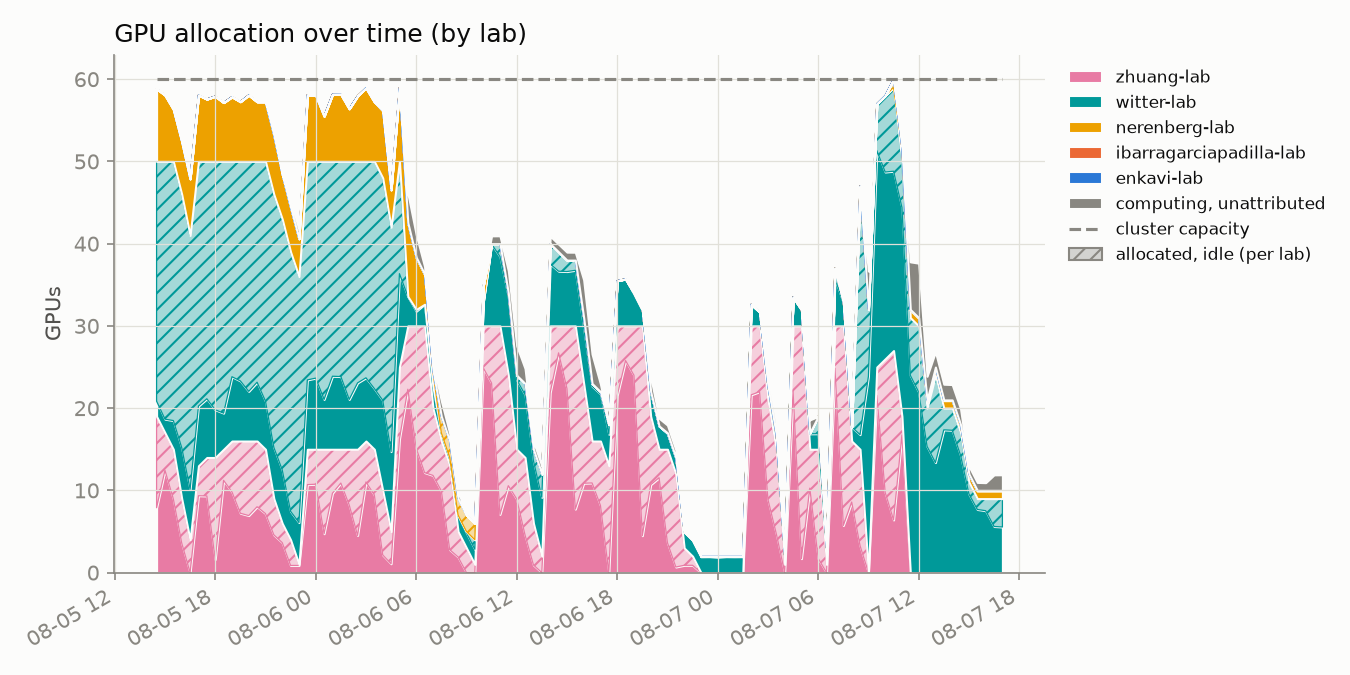
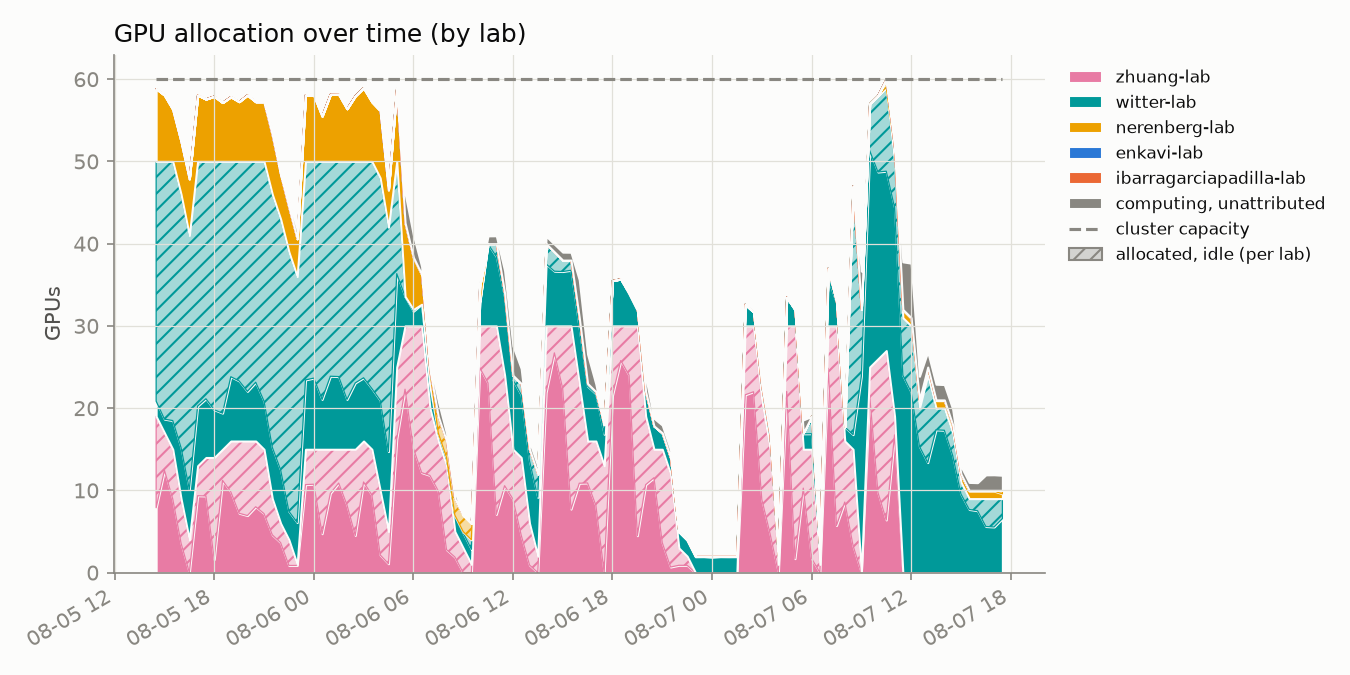
update 2026-08-07T17:30:01-07:00

diff --git a/README.md b/README.md
@@ -2,8 +2,8 @@
 
 Automated GPU/CPU/queue utilization tracker for `hopper.cluster`, updated every 30 minutes by cron. Usernames are anonymized to a stable per-account pseudonym; lab names are real.
 
-Last updated: 2026-08-07T17:00:11-07:00
-Samples: 102 queue snapshots, 102 GPU snapshots
+Last updated: 2026-08-07T17:30:11-07:00
+Samples: 103 queue snapshots, 103 GPU snapshots
 
 ## Resources
 
@@ -16,9 +16,9 @@ Samples: 102 queue snapshots, 102 GPU snapshots
 
 ## Headline
 
-- **52.3%** of the cluster's 60 GPUs allocated, averaged across all samples
-- **46.2%** average `nvidia-smi` utilization *when* a GPU is allocated to a job
-- **87.0%** average cgroup CPU utilization *when* a CPU is allocated to a job
+- **52.0%** of the cluster's 60 GPUs allocated, averaged across all samples
+- **46.3%** average `nvidia-smi` utilization *when* a GPU is allocated to a job
+- **87.1%** average cgroup CPU utilization *when* a CPU is allocated to a job
 
 ## Per lab / per user
 
@@ -26,14 +26,14 @@ Samples: 102 queue snapshots, 102 GPU snapshots
 <tr><th>Lab</th><th>User</th><th align='right'>GPU-hours allocated</th><th align='right'>CPU-hours allocated</th><th align='right'>GPU utilization</th></tr>
 <tr style='background-color:#fbebf1'><td>zhuang-lab</td><td>user-0db9ced0</td><td align='right'>722.0</td><td align='right'>722.0</td><td align='right'>48%</td></tr>
 <tr style='background-color:#d8efef'><td>witter-lab</td><td>user-d58f5a15</td><td align='right'>467.5</td><td align='right'>3740.0</td><td align='right'>9%</td></tr>
-<tr style='background-color:#d8efef'><td>witter-lab</td><td>user-554c620c</td><td align='right'>364.5</td><td align='right'>817.5</td><td align='right'>66%</td></tr>
+<tr style='background-color:#d8efef'><td>witter-lab</td><td>user-554c620c</td><td align='right'>369.0</td><td align='right'>827.0</td><td align='right'>66%</td></tr>
 <tr style='background-color:#fcf0d8'><td>nerenberg-lab</td><td>user-6bb5f332</td><td align='right'>40.0</td><td align='right'>200.0</td><td align='right'>71%</td></tr>
-<tr style='background-color:#fcf0d8'><td>nerenberg-lab</td><td>user-fedb5feb</td><td align='right'>7.0</td><td align='right'>38.5</td><td align='right'>47%</td></tr>
-<tr style='background-color:#dfeaf8'><td>enkavi-lab</td><td>user-c21bdaa4</td><td align='right'>0.0</td><td align='right'>171.0</td><td align='right'>—</td></tr>
-<tr style='background-color:#fce8e0'><td>ibarragarciapadilla-lab</td><td>user-3cfc41a3</td><td align='right'>0.0</td><td align='right'>3690.0</td><td align='right'>—</td></tr>
+<tr style='background-color:#fcf0d8'><td>nerenberg-lab</td><td>user-fedb5feb</td><td align='right'>7.5</td><td align='right'>39.0</td><td align='right'>47%</td></tr>
 <tr style='background-color:#fce8e0'><td>ibarragarciapadilla-lab</td><td>user-dad71a72</td><td align='right'>0.0</td><td align='right'>6.0</td><td align='right'>—</td></tr>
-<tr style='background-color:#fce8e0'><td>ibarragarciapadilla-lab</td><td>user-eec7ffae</td><td align='right'>0.0</td><td align='right'>426.5</td><td align='right'>—</td></tr>
 <tr style='background-color:#fcf0d8'><td>nerenberg-lab</td><td>user-b12dc074</td><td align='right'>0.0</td><td align='right'>16.0</td><td align='right'>—</td></tr>
+<tr style='background-color:#fce8e0'><td>ibarragarciapadilla-lab</td><td>user-eec7ffae</td><td align='right'>0.0</td><td align='right'>426.5</td><td align='right'>—</td></tr>
+<tr style='background-color:#dfeaf8'><td>enkavi-lab</td><td>user-c21bdaa4</td><td align='right'>0.0</td><td align='right'>171.0</td><td align='right'>—</td></tr>
+<tr style='background-color:#fce8e0'><td>ibarragarciapadilla-lab</td><td>user-3cfc41a3</td><td align='right'>0.0</td><td align='right'>3697.5</td><td align='right'>—</td></tr>
 </table>
 
 ## Usage over time
@@ -44,7 +44,7 @@ Samples: 102 queue snapshots, 102 GPU snapshots
 
 Solid = utilized by lab, hatched = allocated but idle, gray = usage not traceable to a lab, dashed line = cluster capacity.
 
-Attribution combines `nvidia-smi`'s process listing with Slurm's GPU-to-job binding record; the latter caught **2400** readings the former missed.
+Attribution combines `nvidia-smi`'s process listing with Slurm's GPU-to-job binding record; the latter caught **2406** readings the former missed.
 
 ## Queue
 
@@ -56,13 +56,13 @@ Attribution combines `nvidia-smi`'s process listing with Slurm's GPU-to-job bind
 
 ![CPU usage vs GPU usage, decayed](assets/cpu_gpu_usage.png)
 
-One point per user per snapshot (n=500), usage decayed on Slurm's ~7-day fairshare half-life.
+One point per user per snapshot (n=504), usage decayed on Slurm's ~7-day fairshare half-life.
 
 **GPU usage doesn't count toward priority on this cluster** (`TRESBillingWeights`/`PriorityWeightTRES` unset) - watch the **upper-left**: low CPU usage (high priority) with high GPU usage.
 
 ## Recommendations
 
-1. **Weight GPU usage in fairshare.** `TRESBillingWeights` and `PriorityWeightTRES` are both unset right now, so Slurm's fairshare score only sees CPU-seconds - a job holding 4 idle L40S GPUs costs nothing in priority as long as it isn't also holding CPUs. That's the exact failure mode the scatter above is built to catch (upper-left: low CPU usage, high GPU usage). Fix: `scontrol update partition=main TRESBillingWeights=CPU=1.0,GRES/gpu=<weight>` (or set `PriorityWeightTRES` cluster-wide), then `scontrol reconfigure` - a full `slurmctld` restart also works but drops in-flight priority state. A reasonable starting point for `<weight>` is the CPUs-per-GPU ratio on a GPU node (128 CPUs / 4 GPUs = 32), so one GPU costs as much fairshare as the CPU share it displaces; tune from there against next week's headline numbers (52.3% allocated, 46.2% utilized when allocated, as of this snapshot). The weight value itself is a policy call - loop in whoever owns cluster allocation policy before changing it.
+1. **Weight GPU usage in fairshare.** `TRESBillingWeights` and `PriorityWeightTRES` are both unset right now, so Slurm's fairshare score only sees CPU-seconds - a job holding 4 idle L40S GPUs costs nothing in priority as long as it isn't also holding CPUs. That's the exact failure mode the scatter above is built to catch (upper-left: low CPU usage, high GPU usage). Fix: `scontrol update partition=main TRESBillingWeights=CPU=1.0,GRES/gpu=<weight>` (or set `PriorityWeightTRES` cluster-wide), then `scontrol reconfigure` - a full `slurmctld` restart also works but drops in-flight priority state. A reasonable starting point for `<weight>` is the CPUs-per-GPU ratio on a GPU node (128 CPUs / 4 GPUs = 32), so one GPU costs as much fairshare as the CPU share it displaces; tune from there against next week's headline numbers (52.0% allocated, 46.3% utilized when allocated, as of this snapshot). The weight value itself is a policy call - loop in whoever owns cluster allocation policy before changing it.
 
 2. **Escalate on sustained low utilization** (see table and scatter above). Right now the clearest candidate is `user-d58f5a15` in `witter-lab`: 467.5 GPU-hours allocated at 9% average utilization, i.e. roughly 424 GPU-hours that sat idle instead of going to someone in the queue. Turning that into an automated escalation needs two decisions made up front: a utilization threshold (something like under 20% mean utilization over at least 50 allocated GPU-hours is a defensible starting bar - loose enough to skip short debugging runs, tight enough to catch parked allocations) and a grace period (how many consecutive low-utilization snapshots before it counts as "sustained" rather than a momentary lull between batches). Once those are set, the mechanism can be either soft (a bot that reads `data/gpu_samples.jsonl` and reminds the user/lab by email or Slack) or hard (a Slurm-side QOS penalty, e.g. `sacctmgr modify qos <qos> set Priority-=<n>`, applied after N consecutive offending snapshots). Neither exists yet - today the table and scatter above are a read-only signal, not an enforced policy.
 
